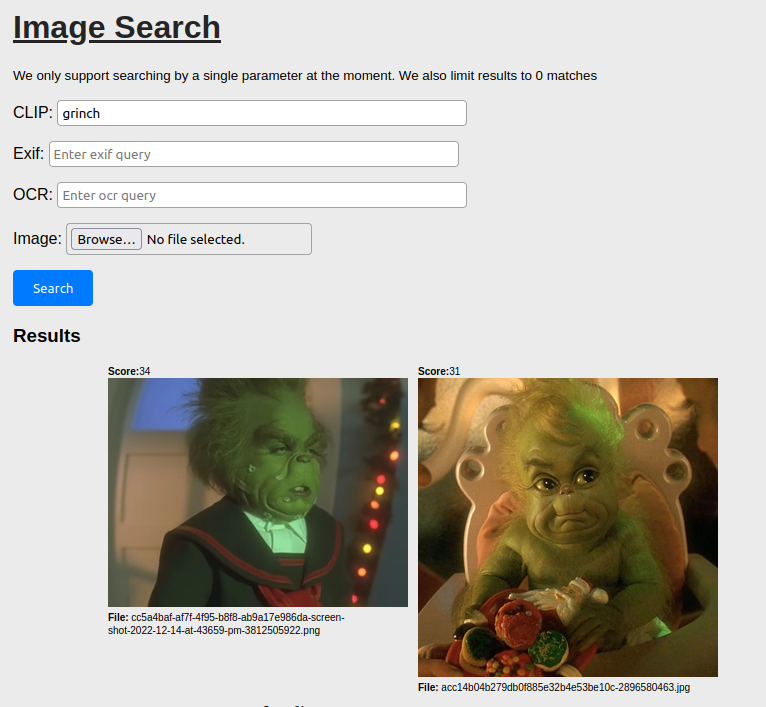
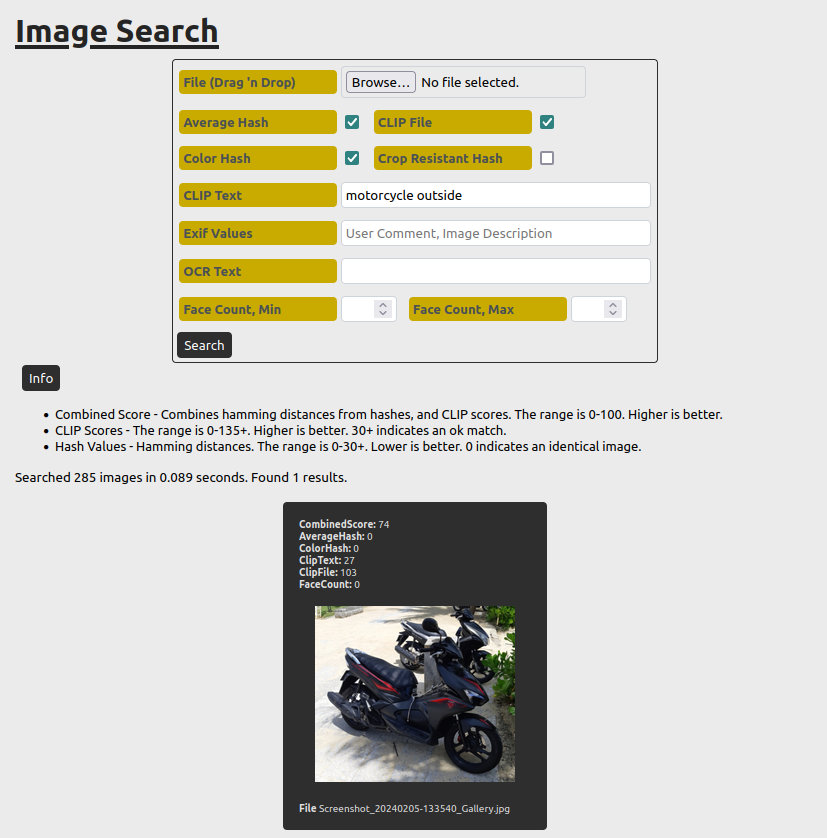
UI, scores, search count

diff --git a/templates/index.html b/templates/index.html
@@ -22,8 +22,6 @@
                 {% endif %}
             {% endwith %}
 
-            <p><small>Results are limited to {{search_result_limit}} matches.</small></p>
-
             <form id="main_form" action="/" method="post" novalidate=True enctype="multipart/form-data">
                 {{ form.csrf_token() }}
                 {{ render_form_row([form.file]) }}
@@ -63,7 +61,22 @@
             </form>
 
             {% if results %}
-                <h3>Results ({{ results|length}})</h3>
+                {% if total_records and time_elapsed %}
+                    <p class="inline_block container_pad">
+                        <button id="info_btn" class="btn-primary">Info</button>
+                        <div id="site_info" class="hidden">
+                            <ul>
+                                <li>Combined Score - Combines hamming distances from hashes, and CLIP scores. The range is 0-100. Higher is better.</li>
+                                <li>CLIP Scores - The range is 0-135+. Higher is better. 30+ indicates an ok match.</li>
+                                <li>Hash Values - Hamming distances. The range is 0-30+. Lower is better. 0 indicates an identical image.</li>
+                            </ul>
+                        </div>
+                        <small>
+                            Searched {{ total_records }} images in {{ time_elapsed }} seconds.
+                            Found {{ results|length }} results.
+                        </small>
+                    </p>
+                {% endif %}
                 <div class="gallery">
                     {% for row in results %}
                         <div class="gallery_item">
@@ -89,5 +102,11 @@
                 </div>
             {% endif %}
         </div>
+        <script>
+            document.getElementById('info_btn').addEventListener('click', function() {
+                var site_info = document.getElementById('site_info');
+                site_info.classList.toggle('hidden');
+            });
+        </script>
     </body>
 </html>

diff --git a/static/index.css b/static/index.css
@@ -11,7 +11,13 @@ html {
     padding: 20px;
     background-color: #ebebeb;
     border-radius: 8px;
-    box-shadow: 0 0 10px #0000001a;
+}
+
+.container_pad {
+    margin-top: 10px;
+    margin-left: 5px;
+    background-color: #ebebeb;
+    border-radius: 8px;
 }
 
 label {
@@ -24,7 +30,8 @@ label {
 }
 
 h1 {
-    margin-bottom: 20px;
+    margin-top: 0px;
+    margin-bottom: 10px;
     color: #343a40;
 }
 
@@ -52,18 +59,22 @@ input[type=text]{
     cursor: pointer;
 }
 
+.inline_block {
+    display: inline;
+}
+
 .btn-primary {
-    background-color: #4b4300;
+    background-color: #2e2e2e;
     border: none;
     color: #ffffff;
-    padding: 10px 20px;
+    padding: 5px 7px;
     border-radius: 4px;
     cursor: pointer;
     margin: 2px;
 }
 
 .btn-primary:hover {
-    background-color: #0056b3;
+    background-color: #3b3b3b;
 }
 
 .alert {
@@ -107,7 +118,6 @@ img {
 }
 
 .gallery_item {
-    border: 3px solid rgb(99, 99, 99);
     background-color: #2e2e2e;
     border-radius: 4px;
     padding: 1em;
@@ -130,9 +140,10 @@ img {
 }
 
 #main_form {
-    max-width: 98%;
-    margin: 2rem auto;
     border-radius: 4px;
+    border: 1px solid #2e2e2e;
+    margin: auto;
+    width: fit-content;
 }
 
 label,
@@ -153,4 +164,12 @@ label,
 
 .col {
     padding: 2px;
+}
+
+.hidden {
+    display: none;
+}
+
+ul {
+    font-size: small;
 }

diff --git a/web.py b/web.py
@@ -1,5 +1,6 @@
 import os
 from enum import StrEnum
+from functools import cache
 
 from flask import (
     Flask,
@@ -21,7 +22,7 @@ from db import query_db
 from db_api import get_sql_cols_from_d, get_sql_markers_from_d
 from forms import SearchForm
 from search import CLIPSearch, search_images
-from utils import get_current_datetime, get_current_datetime_w_us_str
+from utils import Perf, get_current_datetime, get_current_datetime_w_us_str
 
 
 class SearchType(StrEnum):
@@ -117,10 +118,16 @@ def save_search(search_type: SearchType, text: str|None, file: FileStorage|None)
     return filepath
 
 
+@cache
+def get_image_count():
+    return query_db('select count(*) as total_records from image;', one=True).total_records
+
+
 @app.route('/', methods=['GET', 'POST'])
 def index():
     form: SearchForm = SearchForm()
     results = []
+    time_elapsed = None
 
     if form.validate_on_submit():
         form_fields = {}
@@ -143,6 +150,7 @@ def index():
             filepath = save_search(None, None, file)
             img = Image.open(filepath)
 
+        p = Perf()
         results = search_images(
             img,
             clip_search=clip_search,
@@ -156,13 +164,14 @@ def index():
             search_colorhash=search_colorhash,
             search_crop_resistant_hash=search_crop_resistant_hash,
         )
+        time_elapsed = round(p.check(), 3)
 
         if not results:
             flash('No results found', 'warning')
 
         form.data.clear()
 
-    return render_template('index.html', form=form, results=results, search_result_limit=CONSTS.search_result_limit, form_fields=CONSTS.form_fields)
+    return render_template('index.html', total_records=get_image_count(), time_elapsed=time_elapsed, form=form, results=results, search_result_limit=CONSTS.search_result_limit, form_fields=CONSTS.form_fields)
 
 
 @app.route('/serve/<path:filename>')

diff --git a/utils.py b/utils.py
@@ -2,6 +2,7 @@ import hashlib
 from datetime import datetime
 from functools import cache
 from pathlib import Path
+from time import perf_counter
 
 from consts import valid_extensions
 
@@ -41,3 +42,28 @@ def sort_two_lists(list_leader, list_follower, desc=True):
     sorted_combined = sorted(combined, key=lambda x: x[0], reverse=desc)
     sorted_leader, sorted_follower = zip(*sorted_combined) if sorted_combined else ([], [])
     return list(sorted_leader), list(sorted_follower)
+
+
+class Perf:
+    __slots__ = ('previous', 'checkpoints', 'topic')
+
+    def __init__(self, topic: str=None):
+        self.topic = topic
+        self.checkpoints = []
+        self.previous = perf_counter()
+
+    def check(self, name: str=""):
+        now = perf_counter()
+        elapsed = now - self.previous
+        self.previous = now
+        self.checkpoints.append((name, elapsed))
+        return elapsed
+
+    def __repr__(self) -> str:
+        total = sum(point[1] for point in self.checkpoints)
+        longest = max(max(len(point[0]) for point in self.checkpoints), 5) # 5 is len of 'total'
+        topic = f'[{self.topic}]\n' if self.topic else ''
+        return topic + '\n'.join(
+            f'{name:<{longest}}: {elapsed:.4f} {elapsed / total * 100 :.1f}%'
+            for name, elapsed in self.checkpoints
+        ) + f'\n{"total":<{longest}}: {total:.4f}'

diff --git a/search.py b/search.py
@@ -10,28 +10,8 @@ from PIL import Image
 
 import clip
 from configs import CONSTS
-from db_api import get_sql_markers_from_d, query_db
+from db_api import query_db
 from utils import sort_two_lists
-
-
-def get_records_from_image_ids(image_ids):
-    sql_string = f"""
-    SELECT
-        image.image_id,
-        (image.filepath || '/' || image.filename_original) as path,
-        exif.model,
-        exif.ImageDescription,
-        exif.UserComment,
-        COALESCE(ocr.ocr_text, '') as ocr_text
-    FROM image
-        LEFT JOIN exif USING(image_id)
-        LEFT JOIN clip USING(image_id)
-        LEFT JOIN ocr USING(image_id)
-        LEFT JOIN face USING(image_id)
-        LEFT JOIN hash USING(image_id)
-    WHERE image.image_id in ({get_sql_markers_from_d(image_ids)})
-    ;"""
-    return query_db(sql_string, args=image_ids)
 
 
 class HashType(Enum):
@@ -320,4 +300,4 @@ def get_combined_score(metrics: dict) -> int:
             counts += 1
             score += value
 
-    return int(score / (max(counts, 1)))
+    return min(int(score / (max(counts, 1))), 100)
